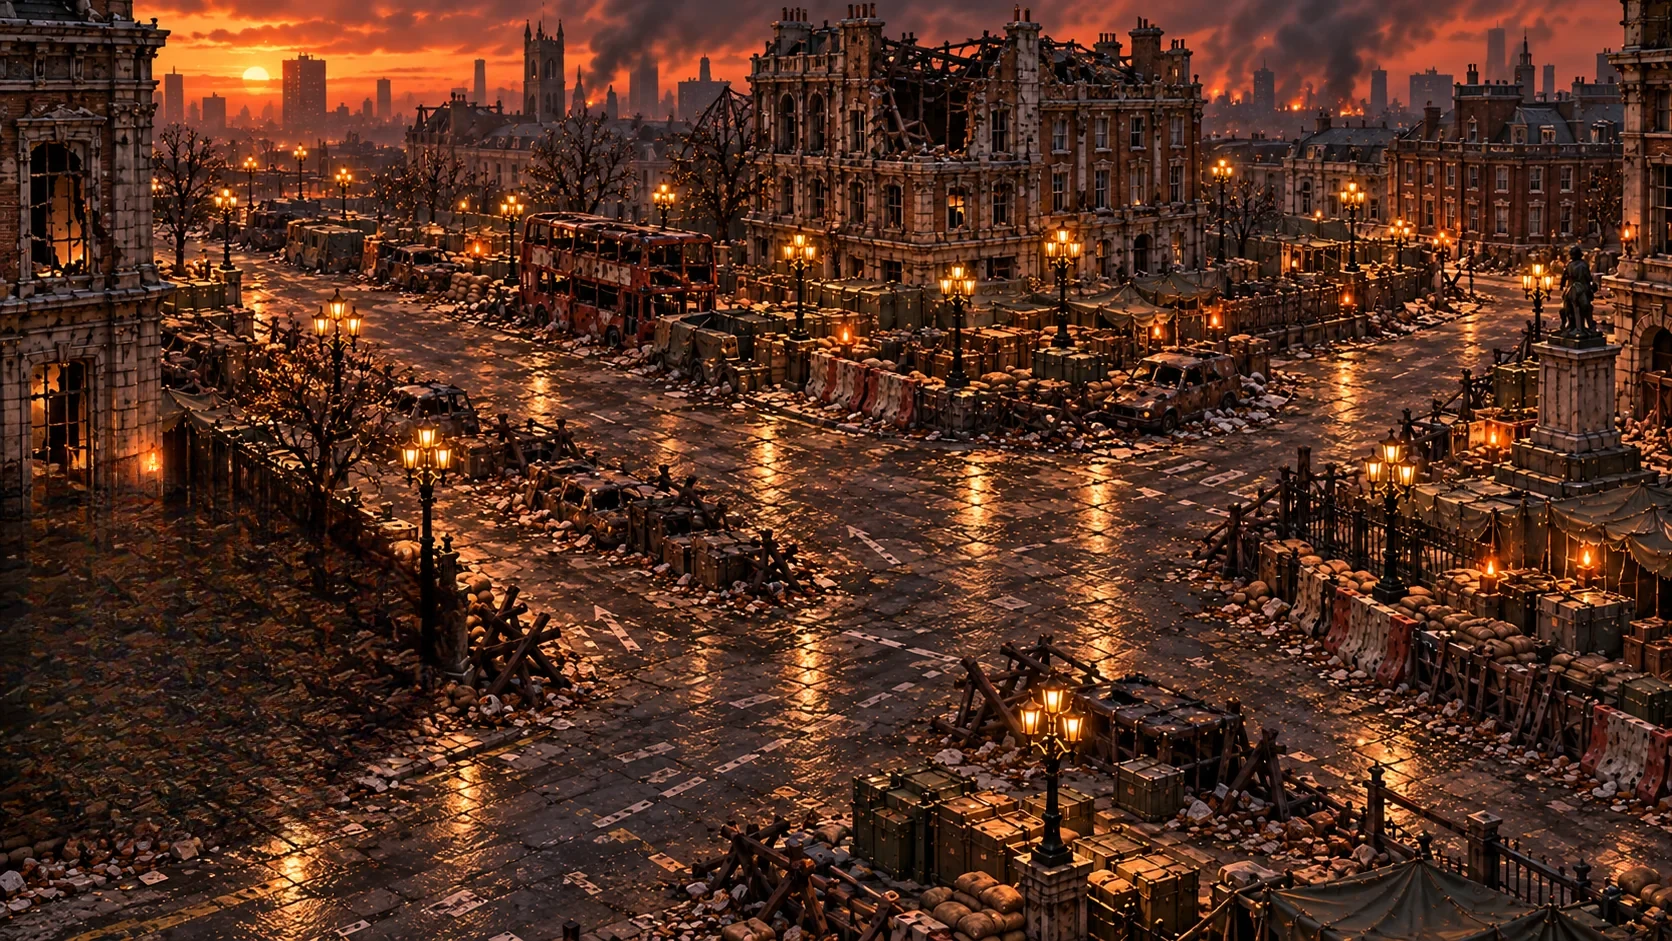
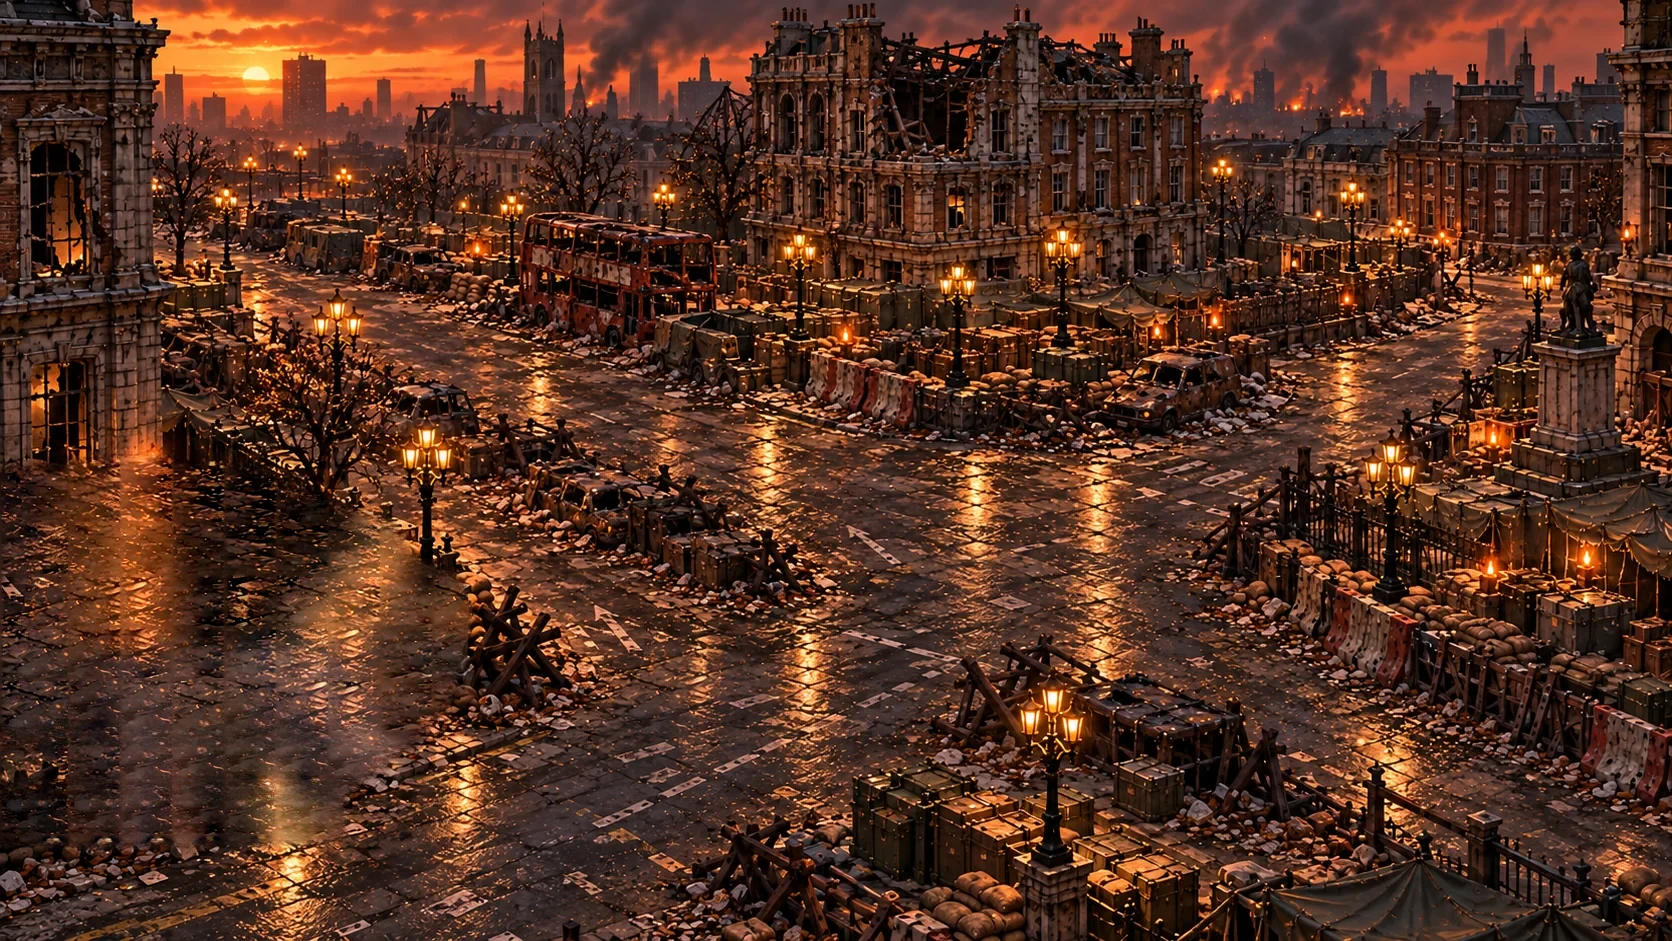
area8 backdrop: fill with real road (quilting + Poisson blend, LaMa only for seams) instead of LaMa alone

Changed region(s): [[0.0, 0.4623, 0.2799, 0.9245]]

diff --git a/Web/tests/data-areas.test.js b/Web/tests/data-areas.test.js
@@ -16,7 +16,7 @@ const raw = () => structuredClone(JSON.parse(rawText));
 const manifest = JSON.parse(fs.readFileSync(new URL("../public/world/manifest.json", import.meta.url)));
 
 test("the data file is pinned", () => {
[2 lines of base64/hex data omitted]
 });
 
 test("areaDefinitions and areaAssets equal the old in-code export (values and key order) except the one stale identity row, and are frozen", () => {

diff --git a/art/backdrop-paint-out/quilt.py b/art/backdrop-paint-out/quilt.py
@@ -1,0 +1,110 @@
+"""quilt.py <area> <mask.json> <sources.json> <out.webp> [original.webp]
+
+Fill the masked painted objects with real road: image quilting from clean road at about the same height in the picture (same perspective
+scale), each patch matched against the pixels already known around it and Poisson-blended in (cv2.seamlessClone), so the cobble pattern,
+wet highlights and light come from the road itself. Source patches never contain road markings or objects (colour test), and every source
+patch lies inside the clean-road rectangles. Pixels no patch reached, and the thin outer edge, are finished with LaMa.
+Run with the vlama venv (numpy, opencv, simple-lama-inpainting)."""
+import json, os, sys
+import cv2
+import numpy as np
+from PIL import Image
+from simple_lama_inpainting import SimpleLama
+
+root = "/Users/domininclynch/Developer/armagedom/.claude/worktrees/arma-chars-f7f72b"
+area, mask_file, sources_file, out = sys.argv[1:5]
+original = sys.argv[5] if len(sys.argv) > 5 else f"{root}/Web/public/world/{area}/backdrop-phone.webp"
+img = np.asarray(Image.open(original).convert("RGB")).copy()
+h, w = img.shape[:2]
+mask = np.zeros((h, w), np.uint8)
+for poly in json.load(open(mask_file)):
+    cv2.fillPoly(mask, [np.array(poly, np.int32)], 255)
+mask = cv2.dilate(mask, cv2.getStructuringElement(cv2.MORPH_ELLIPSE, (17, 17)))
+rects = json.load(open(sources_file))  # clean road rectangles, full-image pixels
+clean = np.zeros((h, w), np.uint8)
+for x0, y0, x1, y1 in rects:
+    clean[y0:y1, x0:x1] = 1
+# Road markings are low-saturation bright paint; objects and rubble are bright or very dark clutter. Neither may be copied.
+PAINT_MAX = 0.004
+hsv = cv2.cvtColor(img, cv2.COLOR_RGB2HSV)
+paint = ((hsv[..., 2] > 150) & (hsv[..., 1] < 90)).astype(np.uint8)
+P, STEP, BAND, TOPK, REUSE = 72, 52, 95, 8, 28
+rng = np.random.default_rng(7)
+paint_share = cv2.boxFilter(paint.astype(np.float32), -1, (P, P))  # share of marking pixels in the patch around each centre
+valid = (cv2.erode(clean, np.ones((P, P), np.uint8)) > 0) & (paint_share < PAINT_MAX)  # inside the clean rectangles, almost no marking
+print("candidate centres", int(valid.sum()), "paint share of road rects", float(paint[clean > 0].mean()))
+known = mask == 0
+# Start from a smooth fill of the surroundings so the Poisson blend below has plausible light all around each patch, not black.
+smooth = cv2.inpaint(cv2.cvtColor(img, cv2.COLOR_RGB2BGR), mask, 9, cv2.INPAINT_TELEA)
+canvas = cv2.cvtColor(smooth, cv2.COLOR_BGR2RGB)
+canvas = cv2.GaussianBlur(canvas, (0, 0), 6) * (mask[..., None] > 0) + canvas * (mask[..., None] == 0)
+canvas = np.ascontiguousarray(canvas.astype(np.uint8))
+ys, xs = np.where(mask > 0)
+bx0, bx1, by0, by1 = xs.min(), xs.max() + 1, ys.min(), ys.max() + 1
+pad = 24
+placed = 0
+used = []
+for py in range(by0, by1, STEP):
+    for px in range(bx0, bx1, STEP):
+        x0, y0 = min(px, w - P), min(py, h - P)
+        unknown = ~known[y0:y0 + P, x0:x0 + P]
+        if unknown.sum() < 40:
+            continue
+        tm = known[y0:y0 + P, x0:x0 + P].astype(np.float32)
+        tmpl = canvas[y0:y0 + P, x0:x0 + P].astype(np.float32)
+        cands = []
+        for ry0 in range(max(0, y0 - BAND), min(h - P, y0 + BAND) + 1, 4):
+            row = valid[ry0 + P // 2, P // 2: w - P // 2]
+            cands += [(int(rx), ry0) for rx in np.where(row > 0)[0][::4]]
+        # never reuse a spot of road: a source patch within 36 px of one already used is skipped, so nothing visibly repeats
+        cands = [c for c in cands if all(abs(c[0] - u[0]) > REUSE or abs(c[1] - u[1]) > REUSE for u in used)] or cands
+        if not cands:
+            continue
+        wsum = max(float(tm.sum()), 1.0)
+        err = np.zeros(len(cands), np.float32)
+        if tm.sum() >= 40:
+            for i, (cx, cy) in enumerate(cands):
+                d = ((img[cy:cy + P, cx:cx + P].astype(np.float32) - tmpl) ** 2).sum(-1) * tm
+                err[i] = d.sum() / wsum
+            k = int(rng.choice(np.argsort(err)[:TOPK]))
+        else:
+            k = int(rng.integers(len(cands)))
+        sx, sy = cands[k]
+        used.append((sx, sy))
+        patch = img[sy:sy + P, sx:sx + P]
+        dst = cv2.copyMakeBorder(canvas, pad, pad, pad, pad, cv2.BORDER_REPLICATE)
+        src_big = dst.copy()
+        src_big[y0 + pad:y0 + pad + P, x0 + pad:x0 + pad + P] = patch
+        full_mask = np.zeros(dst.shape[:2], np.uint8)
+        # The patch also covers 4 px of the neighbour patches already placed inside the mask (never the picture outside it), so the
+        # one-pixel ring the Poisson solver leaves at the region border falls on pixels the next patch overwrites.
+        grown = cv2.dilate(unknown.astype(np.uint8), np.ones((9, 9), np.uint8)) > 0
+        grown &= mask[y0:y0 + P, x0:x0 + P] > 0
+        full_mask[y0 + pad:y0 + pad + P, x0 + pad:x0 + pad + P] = grown.astype(np.uint8) * 255
+        yy, xx = np.where(full_mask > 0)
+        centre = (int((xx.min() + xx.max()) // 2), int((yy.min() + yy.max()) // 2))
+        try:
+            blended = cv2.seamlessClone(src_big, dst, full_mask, centre, cv2.MIXED_CLONE if os.environ.get("QUILT_MIXED") else cv2.NORMAL_CLONE)
+            canvas = np.ascontiguousarray(blended[pad:pad + h, pad:pad + w])
+        except cv2.error:
+            region = unknown
+            canvas[y0:y0 + P, x0:x0 + P][region] = patch[region]
+        known[y0:y0 + P, x0:x0 + P] = True
+        placed += 1
+left = (mask > 0) & ~known
+print("patches", placed, "unreached px", int(left.sum()))
+# LaMa for the seams only: pixels no patch reached plus a thin band along the outer edge of the mask.
+edge = cv2.dilate(mask, np.ones((13, 13), np.uint8)) - cv2.erode(mask, np.ones((13, 13), np.uint8))
+seam = ((edge > 0) | left).astype(np.uint8) * 255
+for bx0_, by0_, bx1_, by1_ in json.load(open(sources_file.replace("src-", "seams-"))):  # visible patch-row seams found by eye
+    seam[by0_:by1_, bx0_:bx1_] = 255
+ys, xs = np.where(seam > 0)
+sx0, sx1, sy0, sy1 = max(0, xs.min() - 64), min(w, xs.max() + 64), max(0, ys.min() - 64), min(h, ys.max() + 64)
+filled = np.asarray(SimpleLama()(Image.fromarray(canvas[sy0:sy1, sx0:sx1]), Image.fromarray(seam[sy0:sy1, sx0:sx1])))
+fixed = canvas.copy()
+region = seam[sy0:sy1, sx0:sx1] > 0
+fixed[sy0:sy1, sx0:sx1][region] = filled[:sy1 - sy0, :sx1 - sx0][region]
+soft = cv2.GaussianBlur(cv2.dilate(mask, np.ones((5, 5), np.uint8)), (0, 0), 3).astype(np.float32)[..., None] / 255
+result = np.clip(img * (1 - soft) + fixed * soft + 0.5, 0, 255).astype(np.uint8)
+Image.fromarray(result).save(out, "WEBP", quality=88, method=6)
+print(area, "done")
